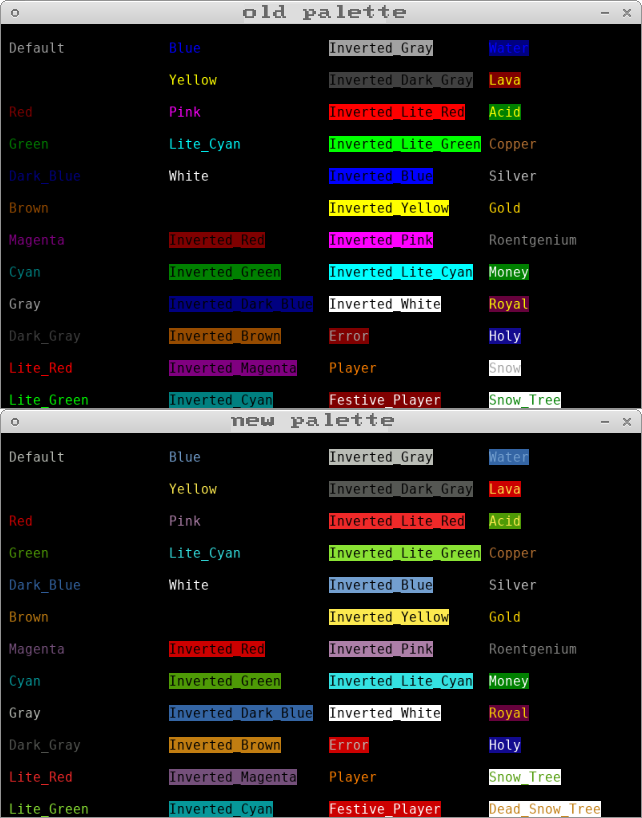
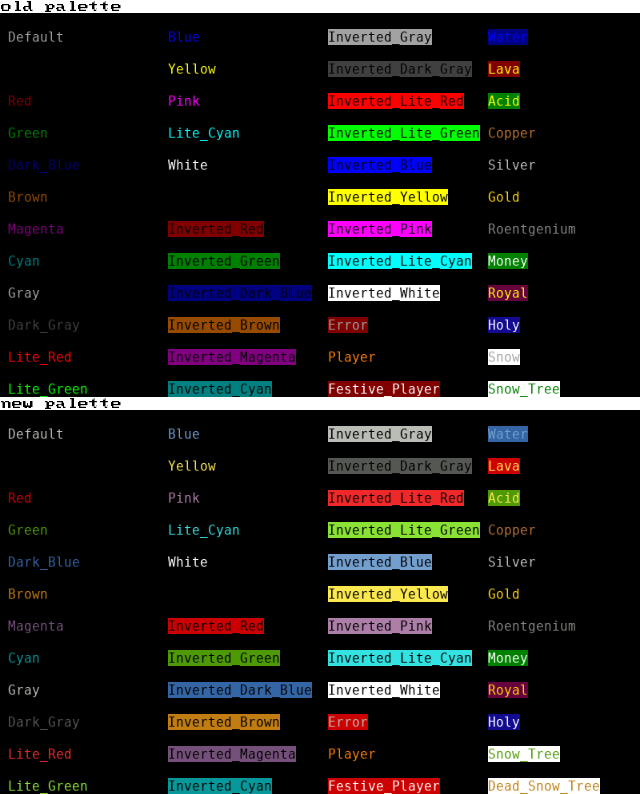
update the history page for version 0.035.

diff --git a/history.md b/history.md
@@ -17,7 +17,7 @@ Table of Contents
 * [SwashRL]
   * [SDL Support]
 
-[Jump to the current version](#0034)
+[Jump to the current version](#0035)
 
 [Back to top]: #table-of-contents
 
@@ -82,6 +82,7 @@ Table of Contents
 [0.032]: #0032
 [0.033]: #0033
 [0.034]: #0034
+[0.035]: #0035
 
 Prehistory
 ----------
@@ -786,5 +787,65 @@ This version does represent the official deprecation of the OpenDyslexic Mono
 font and the settings used to activate it, however.  It was a good idea, but
 in the end it just didn't work very well.  Hopefully in a future version I'll
 be able to find a better way to implement it.
+
+[Back to top]
+
+### 0.035
+
+[Download](https://github.com/swashdev/SwashRL/releases/tag/v0.035)
+
+Version 0.035 features a number of small fixes and additions but primarily
+focuses on refining the inventory system.
+
+Monsters, including the player, now have two character attributes, Strength
+and Endurance, which are randomly generated when the monster is spawned (the
+player gets 3d6 in both).  Items now also have variables which allow them to
+impart modifiers on these attributes.  These features haven't been fully
+implemented yet.
+
+The number of equipment slots available to the player has been simplified down
+to this list:
+- Weapon-hand
+- Off-hand
+- Helmet
+- Armor
+- Shield
+- Boots
+- Left ring
+- Right ring
+- Necklace
+- Clothes
+
+A monster's equipment list is no longer stored in the same array as their open
+inventory.  Instead, the equipment list is an associative array that's ordered
+by the equipment slots from the above list.  The inventory is a dynamic array
+(different monsters may now have different numbers of inventory slots) and the
+wallet is a non-dynamic array (containing stacks of coins in 5 denominations).
+
+Monster inventories will now be saved when the level is saved, and loaded when
+the level is loaded.  This also goes for their wallet and equipment.
+
+The color palette for the SDL terminal interface has been changed to a
+variation on the Tango color palette, so the colors are less garish and stand
+out more against the black background.  Several colors have been adjusted or
+removed.
+
+![An image showing the differences in color palettes between versions 0.034 and 0.035](images/v0.035-color-comparison.png)
+
+SwashRL now incorporates a default font,
+[bd-font from Bad Diode](https://git.badd10de.dev/bd-font/about/),
+which is used if it doesn't find a valid TTF font file.
+
+![An image showing version 0.035 in its default bd-font](images/v0.035-bd-font.png)
+
+The player can now specify a random seed for the map generator, and the map
+generation functions now use a separate random number generator from the rest
+of the game to allow players to share level gens they think are particularly
+interesting.
+
+Other minor fixes include preventing the player from getting a free festive
+hat if they are already wearing a hat (thus keeping the festive hat from
+overwriting any armor they might be wearing) and fixing sessile monsters so
+that they can no longer move.
 
 [Back to top]
